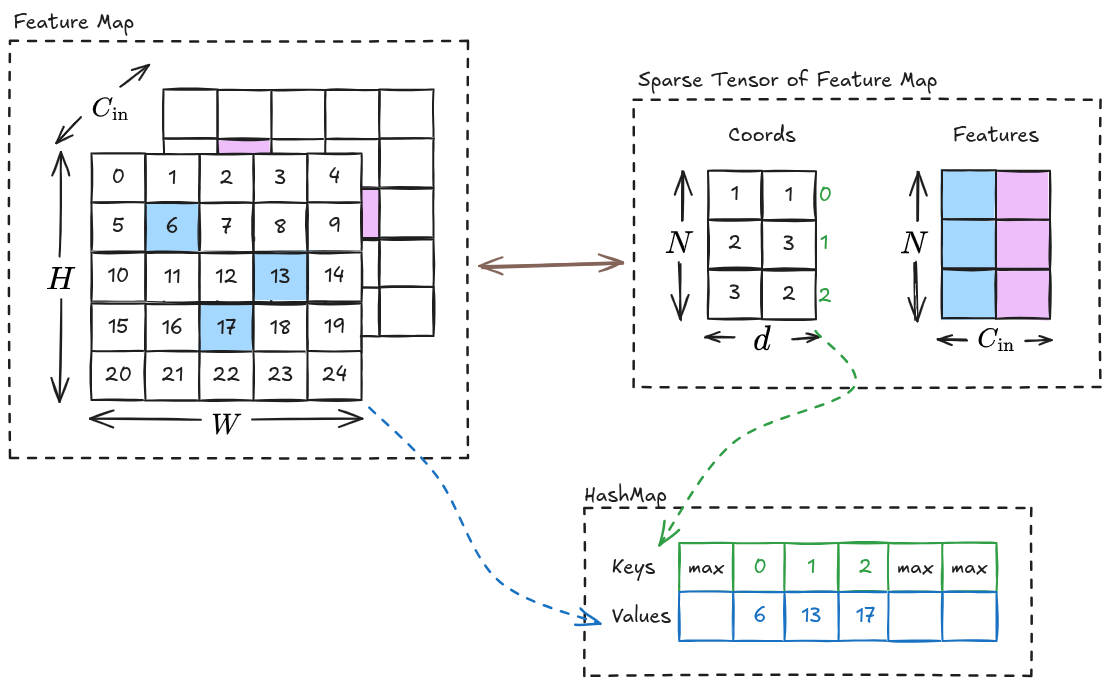
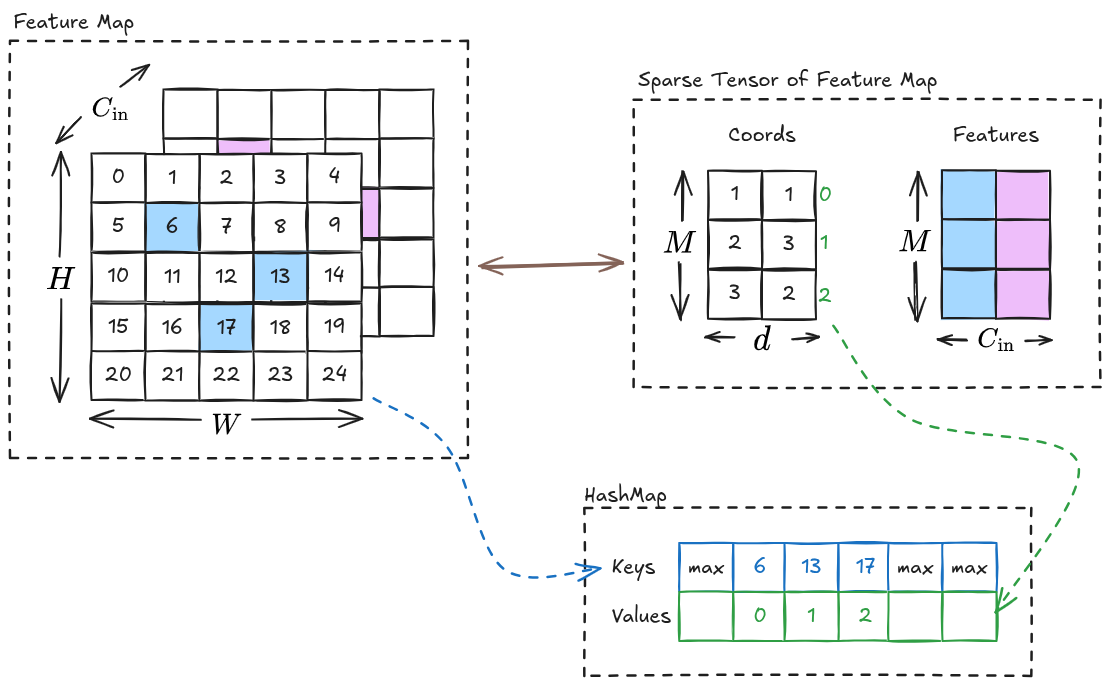
fix incorrect statements

diff --git a/src/posts/submanifold-conv-1.md b/src/posts/submanifold-conv-1.md
@@ -38,7 +38,7 @@ Although not shown in the above example, the sparse tensor representation also c
 
 To implement submanifold convolution efficiently, we need a way to fetch the neighbors of the active sites. For this purpose, we do the following two things:
 
-1. Create a hash map that maps each index in the coords to the index in the flattened original feature map. (This will be explained in part 2)
+1. Create a hash map that maps each active index in the flattened original feature map to an index in the coords (This will be explained in part 2)
     ![Hash Map](spconv/hashmap.png)
 2. Use the hash map to create a neighbor map. For each active sites, the neighbor map contains the location of its active neighbors. (This will be explained in part 3)
     ![Neighbor Map](spconv/neighbor-map.png)
